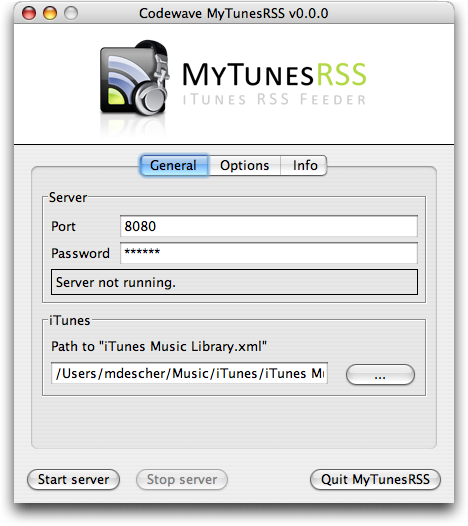
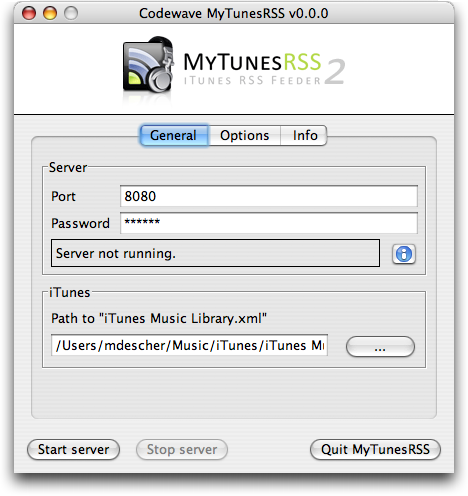
git-svn-id: svn://127.0.0.1/MyTunesRss/trunk@1194 6cd82e91-2702-0410-863d-86aa3370aca5

Changed region(s): [[0.0299, 0.0, 0.9573, 0.756], [0.0299, 0.877, 0.9573, 0.9677], [0.0299, 0.0, 0.1795, 0.0605]]

diff --git a/etc/documentation/docs/de/web_browse.html b/etc/documentation/docs/de/web_browse.html
@@ -64,7 +64,7 @@
         <p>Über den Künstlern sind Links zum Anzeigen der Liste der Alben und zum Erstellen einer neuen Playliste. Diese Funktion wird in einem
            späteren Kapitel beschrieben.</p>
 
-        <img src="images/web_artist.png" width="463" alt="Login" />
+        <img src="images/web_artist.png" width="463" alt="Künstlerliste" />
 
         <p>Die Liste der Alben ist ähnlich aufgebaut. Sie zeigt alle Alben in alphabetischer Reihenfolge. Hinter jedem Album steht der Künster oder
            "verschiedene" bei Alben mit mehreren Künstlern. Auch die Anzahl der Titel auf dem Album und die Links zum Erzeugen einer M3U Playlist oder
@@ -73,15 +73,30 @@
            Alben eines Künstlers) und die Liste mehr als ein Album enthält, ist am Ende der Liste ein zusätzlicher Eintrag "Alle Titel der obigen
            Alben" vorhanden.</p>
 
-        <img src="images/web_album.png" width="463" alt="Login" />
+        <img src="images/web_album.png" width="463" alt="Albenliste" />
 
         <p>
             Die Liste der Titel erscheint nach der Suche vom Portal aus oder nach einem Klick auf die Titelliste in einer der anderen Ansichten. Hier
             werden die entsprechenden Titel nach Album oder Künstler sortiert und gruppiert angezeigt. Sie können die Gruppierung wählen und von jedem
             Titel oder jeder Gruppe eine M3U Playlist bzw. einen RSS Feed erzeugen. Sowohl in den Gruppenüberschriften als auch in den einzelnen
-            Titeln können Sie mit einem Klick auf den Künstler alle Alben des entsprechenden Künstlers anzeigen. </p>
+            Titeln können Sie mit einem Klick auf den Künstler alle Alben des entsprechenden Künstlers anzeigen. Sie können auch einzelne Titel direkt
+            herunterladen, beispielsweise um sie ohne USB-Verbindung auf eine Playstation Portable zu kopieren. Videodateien werden duch ein
+            Videosymbol markiert, geschützte Dateien (die im iTunes Music Store gekauft wurden) werden durch ein kleines Schloss markiert.</p>
 
-        <img src="images/web_track.png" width="463" alt="Login" />
+        <img src="images/web_track.png" width="463" alt="Titelliste" />
+
+        <p>Die folgenden Symbole werden in der Applikation verwendet:</p>
+
+        <p><img src="../images/movie.gif" alt="video" style="vertical-align:text-bottom" /> Videodatei</p>
+
+        <p><img src="../images/protected.gif" alt="protected" style="vertical-align:text-bottom" /> Geschützte Datei (kann nur in iTunes abgespielt
+                                                                                                    werden)</p>
+
+        <p><img src="../images/rss.gif" alt="rss" style="vertical-align:text-bottom" /> RSS Feed erzeugen</p>
+
+        <p><img src="../images/m3u.gif" alt="m3u" style="vertical-align:text-bottom" /> M3U Playliste erzeugen</p>
+
+        <p><img src="../images/download.gif" alt="download" style="vertical-align:text-bottom" /> Titel herunterladen</p>
 
     </div>
 

diff --git a/etc/documentation/docs/en/web_browse.html b/etc/documentation/docs/en/web_browse.html
@@ -59,7 +59,7 @@
         <p>Above the list are links for switching to browse albums and for creating ne playlists. This function will be described in a later
            chapter.</p>
 
-        <img src="images/web_artist.png" width="463" alt="Login" />
+        <img src="images/web_artist.png" width="463" alt="artist list" />
 
         <p>The list of albums looks similar. It shows all albums sorted alphabetically. Next to each album is the artist or "various" if there are
            multiple artists on the album, the track count for the album and the icons for creating M3U playlists or RSS feeds. With a click on the
@@ -67,15 +67,28 @@
            In case you have a filtered list, i.e. all albums of a single artist, you also get a special item at the bottom which is called "All tracks
            of the above albums". This is displayed only if there are multiple albums for an artist.</p>
 
-        <img src="images/web_album.png" width="463" alt="Login" />
+        <img src="images/web_album.png" width="463" alt="album list" />
 
         <p>
             The track list is displayed when searching on the portal page or with a click on the track count in any other list. The titles are sorted
             and grouped either by album or by artist. You can switch from one view to the other. You can also create RSS feeds or M3U playlists from
             each track or a group of tracks. In the group headers as well as in each title, the artist name is clickable and leads to all albums of
-            that artist.</p>
+            that artist. You can also simply download individual tracks, e.g. for getting it to the Playstation Portable without having to use an USB
+            link. Video files are marked with the video icon and protected files (bought in the iTunes Music Store) are marked with a lock icon.</p>
 
-        <img src="images/web_track.png" width="463" alt="Login" />
+        <img src="images/web_track.png" width="463" alt="track list" />
+
+        <p>The following icons are used throughout the application:</p>
+
+        <p><img src="../images/movie.gif" alt="video" style="vertical-align:text-bottom" /> video file</p>
+
+        <p><img src="../images/protected.gif" alt="protected" style="vertical-align:text-bottom" /> protected file (only playable in iTunes)</p>
+
+        <p><img src="../images/rss.gif" alt="rss" style="vertical-align:text-bottom" /> create RSS feed</p>
+
+        <p><img src="../images/m3u.gif" alt="m3u" style="vertical-align:text-bottom" /> create M3U playlist</p>
+
+        <p><img src="../images/download.gif" alt="download" style="vertical-align:text-bottom" /> download track</p>
 
     </div>
 

diff --git a/etc/documentation/docs/de/config.html b/etc/documentation/docs/de/config.html
@@ -76,7 +76,7 @@
             machen. Weiterhin können Sie bestimmen, ob beim Start der Anwendung automatisch nach neueren Versionen von MyTunesRSS gesucht werden soll.
             Diese Option steht nicht zur Verfügung, wenn Sie den Server automatisch starten lassen. Sie können hier auch manuell nach einer neuen
             Version suchen. Bei laufendem Server können Änderungen an iTunes optional automatisch in die MyTunesRSS Datenbank übernommen werden.
-            Aktivieren Sie die entsprechende Option und legen Sie fest, alle wieviel Sekunden MyTunesRSS nach Änderungen an der "iTunes Music
+            Aktivieren Sie die entsprechende Option und legen Sie fest, alle wieviel Minuten MyTunesRSS nach Änderungen an der "iTunes Music
             Library.xml" schauen soll. </p>
 
         <img src="images/info.png" alt="Informationen" />
@@ -91,8 +91,10 @@
             Server läuft, können Sie keine Einstellungen verändern. Wenn der Server gestartet wurde, wird in der Statuszeile auf der ersten
             Konfigurationsseite die Adresse angezeigt, unter der der Server in Ihrem lokalen Netz erreichbar ist. Üblicherweise haben Sie eine
             einzeige lokale Adresse (z.B. 192.168.0.2). Wenn Sie mehrere Netzwerkschnittstellen haben (z.B. ein LAN und ein WLAN), dann haben Sie auch
-            mehrere lokale Adressen. Es wird nur eine davon in der Statuszeile angezeigt. Wenn Sie alle lokalen Adressen sehen möchten, bewegen Sie
-            bitte den Mauszeiger über den Statustext und schauen sich den Tooltip an. </p>
+            mehrere lokale Adressen. Es wird nur eine davon in der Statuszeile angezeigt. Wenn Sie alle lokalen Adressen sehen möchten, klicken Sie
+            auf den Informationsknopf neben der Statusanzeige. Es wird auch Ihre externe Adresse angezeigt, wenn Sie mit dem Internet verbunden sind
+            und die Adresse ermittelt werden kann. Sie können die Ermittlung abbrechen, wenn es zu lange dauert. Die internen Adressen werden in jedem
+            Fall angezeigt. </p>
 
         <p>
             Beim Beenden des Programmes wird ein eventuell noch laufender Server zuerst gestoppt. Die Fensterposition und sämtliche Einstellunegn

diff --git a/etc/documentation/docs/en/config.html b/etc/documentation/docs/en/config.html
@@ -73,7 +73,7 @@
             system's startup items and have the server up and running when booting your operating system. Furthermore you can have MyTunesRSS
             automatically check for new versions on startup. This option is not available in case you choose to start the server automatically. You
             can also look for new versions manually. When the server is running you can have it automatically check for changes in iTunes and have the
-            internal database updated. Select the number of seconds between these checks.</p>
+            internal database updated. Select the number of minutes between these checks.</p>
 
         <img src="images/info.png" alt="Informationen" />
 
@@ -86,8 +86,9 @@
             Below the configuration pages are three buttons for starting and stopping the server and for quitting the program. You cannot change any
             settings while the server is running. When the server is started, the status line on the first configuration tab displays your local
             address which can be used to access the MyTunesRSS web application. Usually you have a single address which is displayed. In case you have
-            multiple network interfaces, e.g. LAN and WLAN, you have multiple addresses as well. Move the mouse over the status line and wait for the
-            tooltip to open. It displays all local addresses.</p>
+            multiple network interfaces, e.g. LAN and WLAN, you have multiple addresses as well. The information button next to the server status
+            opens a simple dialog which displays all local addresses and your external address if you are connected to the internet and it can be
+            determined. You can cancel fetching the external address if it takes too long. Your internal ones will be displayed nevertheless.</p>
 
         <p>
             When quitting the program while the server is running, it is stopped. The window position and all settings are automatically saved for the

diff --git a/etc/documentation/docs/de/web_settings.html b/etc/documentation/docs/de/web_settings.html
@@ -67,8 +67,10 @@
            Einträge eines Feeds an. Wenn Sie die Feedgröße hier begrenzen, werden größere Playlisten auf der Portalseite zusätzlich in mehrere Listen
            der eingestellten Größe unterteilt angeboten. Die Originallisten werden in jedem Fall zusätzlich angezeigt.</p>
 
-        <p>Als letzte Option können Sie die Playlisttypen wählen, die in der Webapplikation erscheinen sollen. Sie müssen mindestens einen Typ
+        <p>Als nächste Option können Sie die Playlisttypen wählen, die in der Webapplikation erscheinen sollen. Sie müssen mindestens einen Typ
            auswählen. Auf der Playstation Portable beispielsweise können Sie die M3U Listen deaktivieren, da sie sowieso nicht unterstützt werden.</p>
+
+        <p>Zuletzt können Sie auswählen, ob sie deb Download-Link für einzelne Titel anzeigen oder ausblenden möchten.</p>
 
         <img src="images/web_settings.png" width="463" alt="Login" />
 

diff --git a/etc/documentation/docs/en/web_settings.html b/etc/documentation/docs/en/web_settings.html
@@ -61,8 +61,10 @@
            So limiting feeds to 100 items is useful here. A limit will make the portal display each playlist which is larger than this number as
            multiple splitted lists in addition to the original list.</p>
 
-        <p>The last options is the playlist type choice. You can select to have only the RSS icons, only the M3U icons or both. This makes sense if a
+        <p>The next option is the playlist type choice. You can select to have only the RSS icons, only the M3U icons or both. This makes sense if a
            client only supports one of them or you are only working with one of them.</p>
+
+        <p>Finally you can select to either show or hide the download link for individual tracks.</p>
 
         <img src="images/web_settings.png" width="463" alt="Login" />
 

diff --git a/etc/documentation/docs/de/intro.html b/etc/documentation/docs/de/intro.html
@@ -58,7 +58,9 @@
         <p>
             Sie können Ihre Bibliothek nach Alben, Künstlern oder einzelnen Titeln durchsuchen. Neben den in iTunes vorhandenen Playlisten können Sie
             aus dem Daten auch eigene Playlisten zusammenstellen. Aus jeder Playliste, einem kompletten Album oder allen Titeln eines Künstlers können
-            Sie M3U Playlisten und RSS Feeds erzeugen.</p>
+            Sie M3U Playlisten und RSS Feeds erzeugen. Sie können einzelne Titel auch einfach herunterladen, zum Beispiel um sie ohne eine
+            USB-Verbindung auf Ihre Playstation Portable zu kopieren. Anwendungen wie VLC können auch Streams von Videos aus Ihrer Bibliothek
+            wiedergeben.</p>
 
     </div>
 

diff --git a/etc/documentation/docs/en/intro.html b/etc/documentation/docs/en/intro.html
@@ -56,7 +56,9 @@
 
         <p>
             You can browse your library by album or artist and you can search for tracks. Besides the exisiting iTunes playlists you can create new
-            ones from the browser. You can create RSS feeds or M3U playlists from any album, tracks of an artist or a playlist.</p>
+            ones from the browser. You can create RSS feeds or M3U playlists from any album, tracks of an artist or a playlist. You can also simply
+            download tracks, e.g. for getting them on your Playstation Portable without a USB link. Applications like VLC for example can also get
+            streams from videos in your library.</p>
 
     </div>
 

diff --git a/etc/documentation/docs/de/versions.html b/etc/documentation/docs/de/versions.html
@@ -49,6 +49,17 @@
 
         </h1>
 
+        <h2>Version 2.1</h2>
+        <span class="date">25 Juni 2006</span>
+        <ul>
+        <li>Download-Link für einzelne Titel</li>
+        <li>Datenbank Autoupdate in Minuten anstatt Sekunden</li>
+        <li>Ältere iTuness Versionen sollten funktionieren</li>
+        <li>Anzeige lokaler/externer Adresse in einem Dialog</li>
+        <li>Fehlerklang bei Anfrage fehlender Dateien</li>
+        <li>Bugfixes</li>
+        </ul>
+
         <h2>Version 2.0.1</h2>
         <span class="date">10. Juni 2006</span>
         <ul>

diff --git a/etc/documentation/docs/en/versions.html b/etc/documentation/docs/en/versions.html
@@ -49,6 +49,17 @@
 
         </h1>
 
+        <h2>Version 2.1</h2>
+        <span class="date">June 25, 2006</span>
+        <ul>
+        <li>Download link for individual tracks</li>
+        <li>Database auto-update in minutes instead of seconds</li>
+        <li>Older iTunes versions should work</li>
+        <li>Display of local/external address in dialog</li>
+        <li>Error sound when requesting missing files</li>
+        <li>Bugfixes</li>
+        </ul>
+
         <h2>Version 2.0.1</h2>
         <span class="date">June 10, 2006</span>
         <ul>

diff --git a/etc/documentation/docs/en/sysreqs.html b/etc/documentation/docs/en/sysreqs.html
@@ -40,14 +40,14 @@
                 </ul>
                 <li><a href="outro.html">Contact</a></li>
             </ul>
-            
 
         </div>
 
         <h1>System requirements</h1>
 
         <p>
-            MyTunesRSS requires an installed JDK or JRE 1.5 and an iTunes music Library. </p>
+            MyTunesRSS requires an installed JDK or JRE 1.5 and an iTunes music Library. MyTunesRSS works best with iTunes version 6 and above. It
+            should work with earlier versions as well but this might be unreliable.</p>
 
     </div>
 

diff --git a/etc/documentation/docs/de/sysreqs.html b/etc/documentation/docs/de/sysreqs.html
@@ -46,7 +46,8 @@
         <h1>Systemvoraussetzungen</h1>
 
         <p>
-            MyTunesRSS erfordert ein installiertes JDK oder JRE 1.5 oder höher und eine iTunes Musikbibliothek. </p>
+            MyTunesRSS erfordert ein installiertes JDK oder JRE 1.5 oder höher und eine iTunes Musikbibliothek. MyTunesRSS funktioniert am besten mit
+            iTunes Versionb 6 und höher. Ältere Versionen sollten ebenfalls funktionieren, können aber möglicherweise unzuverlässig sein.</p>
 
     </div>
 
